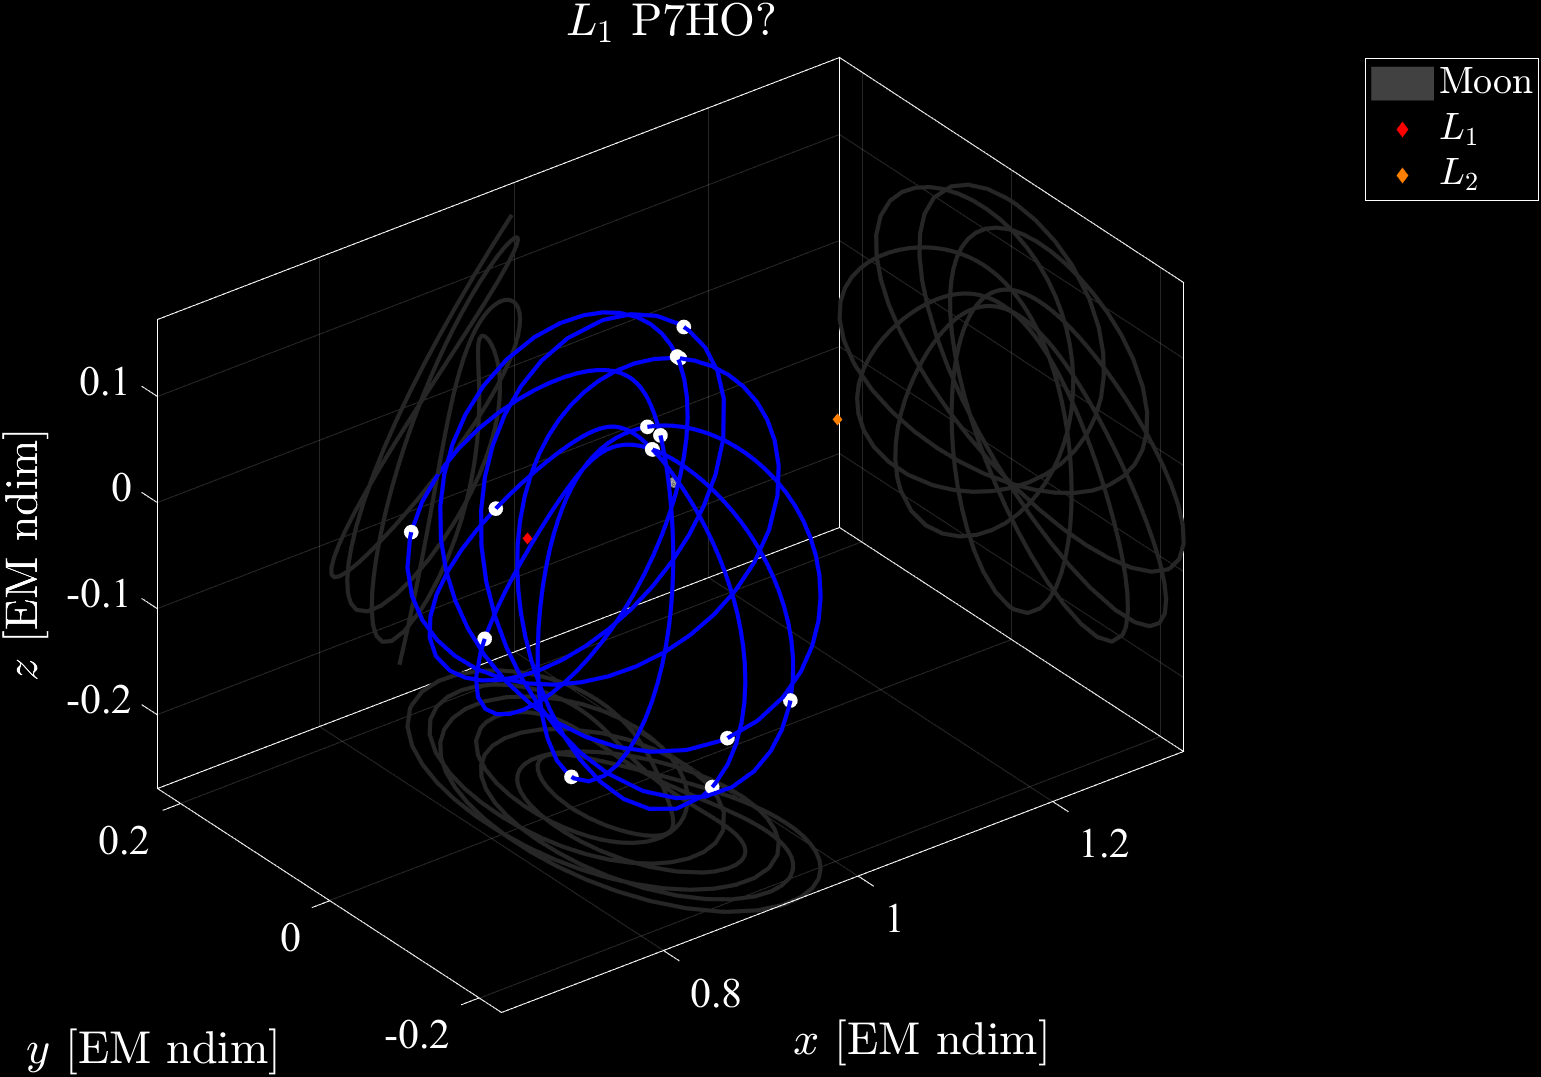
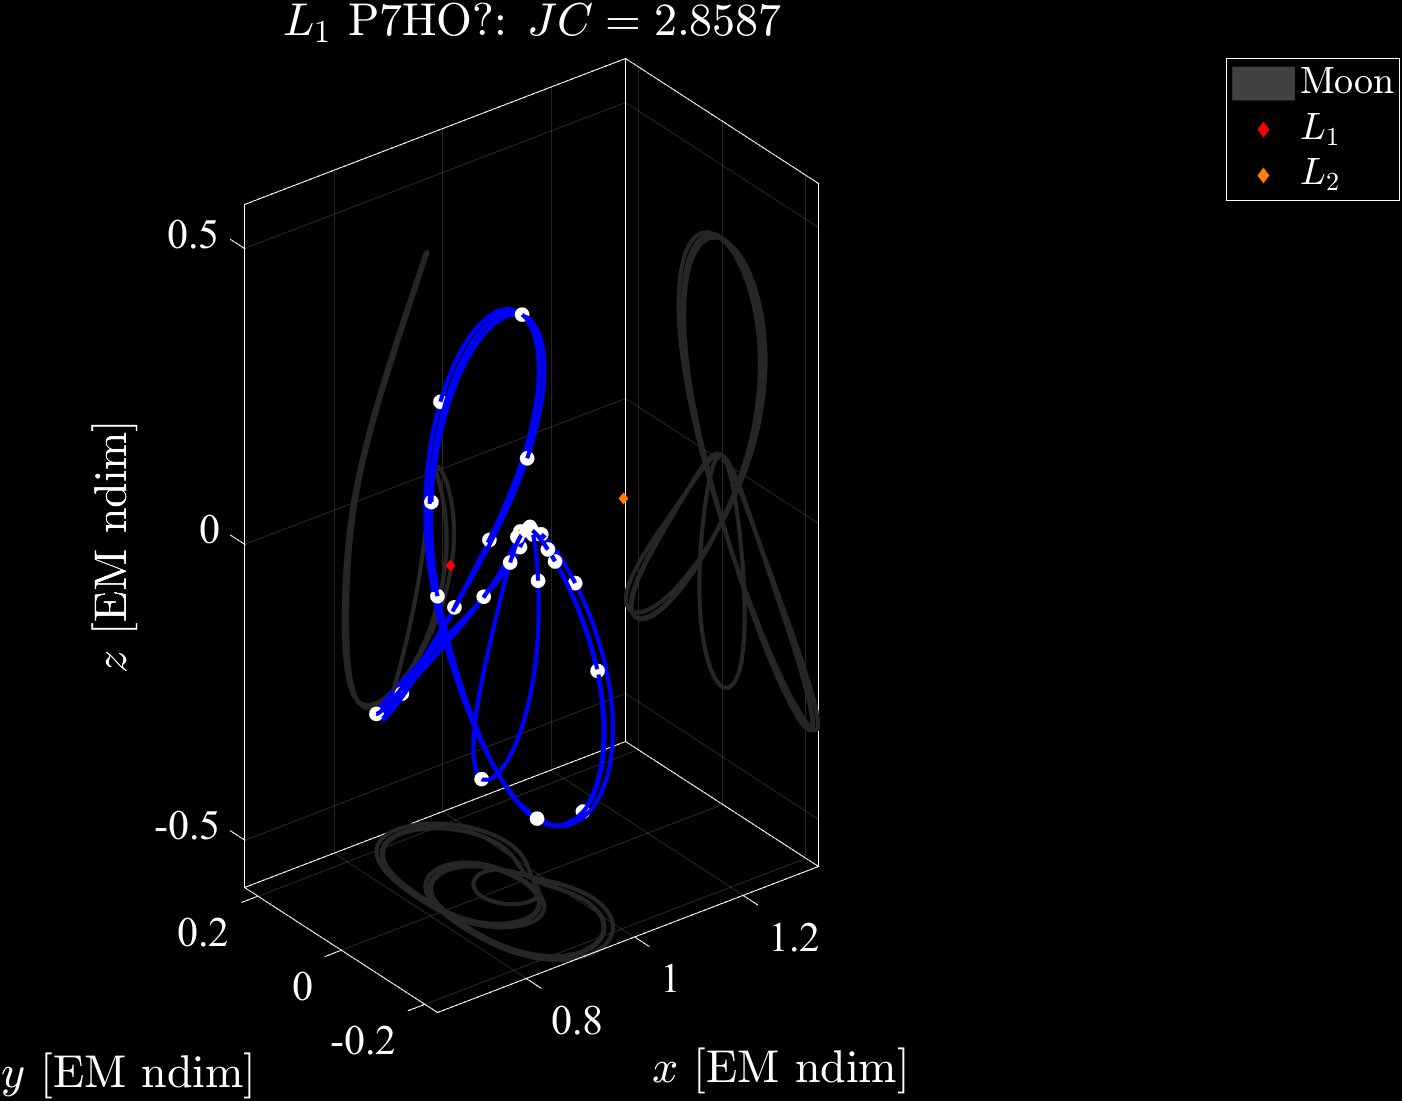
Updated BCR4BPDev script and created getHEM and getZVC functions

diff --git a/BCR4BPDev.m b/BCR4BPDev.m
@@ -1,7 +1,7 @@
 %%% BCR4BPDev.jl
 %%% Jonathan Richmond
 %%% C: 19 February 2025
-%%% U: 26 March 2025
+%%% U: 9 April 2025
 
 clear
 addpath('C:\Program Files\MATLAB\mice\src\mice\')
@@ -90,118 +90,236 @@ b4 = sqrt(3)/2;
 b5 = -b4;
 
 %% Plots
-fig1 = figure("Position", [200 100 1200 750]);
+% fig1 = figure("Position", [200 100 1200 750]);
+% hold on
+% Earth = plot3DBody("Earth", RE/lstarEM, [-muEM, 0, 0]);
+% set(Earth, 'DisplayName', "Earth")
+% Moon = plot3DBody("Moon", Rm/lstarEM, [1-muEM, 0, 0]);
+% set(Moon, 'DisplayName', "Moon")
+% scatter3(a1EM, 0, 0, 20, 'r', 'filled', 'd', 'DisplayName', "CR3BP $L_{1}$")
+% scatter3(a2EM, 0, 0, 20, [1 0.5 0], 'filled', 'd', 'DisplayName', "CR3BP $L_{2}$")
+% scatter3(a3EM, 0, 0, 20, 'g', 'filled', 'd', 'DisplayName', "CR3BP $L_{3}$")
+% scatter3(a45EM, b4, 0, 20, 'b', 'filled', 'd', 'DisplayName', "CR3BP $L_{4}$")
+% scatter3(a45EM, b5, 0, 20, [1 0 1], 'filled', 'd', 'DisplayName', "CR3BP $L_{5}$")
+% plot3(orbitCR3BP.x, orbitCR3BP.y, orbitCR3BP.z, 'DisplayName', "CR3BP Orbit")
+% scatter3(trajBCR4BPEM.x, trajBCR4BPEM.y, trajBCR4BPEM.z, 10*ones(length(trajBCR4BPEM.t), 1), angleColor(trajBCR4BPEM.theta4), 'filled', 'DisplayName', "BCR4BP EM Prop.")
+% % plot3(validBCR4BPEM.x, validBCR4BPEM.y, validBCR4BPEM.z, 'DisplayName', "BCR4BP S$B_{1}$ Trans.")
+% % plot3(validBCR4BPEM2.x, validBCR4BPEM2.y, validBCR4BPEM2.z, 'DisplayName', "ECLIPJ2000 Trans.")
+% axis equal
+% grid on
+% xlabel("$x$ [EM ndim]", 'Interpreter', 'latex')
+% ylabel("$y$ [EM ndim]", 'Interpreter', 'latex')
+% zlabel("$z$ [EM ndim]", 'Interpreter', 'latex')
+% title("Earth-Moon: $\theta_{S,0}="+num2str(rad2deg(trajBCR4BPEM.theta4(1)), '%.0f')+"^{\circ}$", 'Interpreter', 'latex')
+% legend('Location', 'northeastoutside', 'Interpreter', 'latex')
+% phasemap;
+% phasebar('deg', 'Location', 'northeast', 'Size', 0.275)
+% set(gca, 'Color', 'k')
+% view(3)
+% hold off
+% % exportgraphics(fig1, 'BCR4BPDev_1.png', 'BackgroundColor', 'k')
+
+% fig2 = figure("Position", [200 100 1200 750]);
+% hold on
+% B1 = plot3DBody("Earth", RE/lstarSB1, [1-muSB1, 0, 0]);
+% set(B1, 'DisplayName', "$B_{1}$")
+% fplot(@(t) a_M*sin(t)+1-muSB1, @(t) a_M*cos(t), 'w', 'DisplayName', "Lunar Orbit");
+% scatter3(trajBCR4BPSB1.x, trajBCR4BPSB1.y, trajBCR4BPSB1.z, 10*ones(length(trajBCR4BPSB1.t), 1), angleColor(trajBCR4BPSB1.theta2), 'filled', 'DisplayName', "BCR4BP EM Trans.")
+% % plot3(validBCR4BPSB1.x, validBCR4BPSB1.y, validBCR4BPSB1.z, 'DisplayName', "BCR4BP S$B_{1}$ Prop.")
+% % plot3(validBCR4BPSB12.x, validBCR4BPSB12.y, validBCR4BPSB12.z, 'DisplayName', "ECLIPJ2000 Trans.")
+% axis equal
+% grid on
+% xlabel("$\underline{x}$ [S$B_{1}$ ndim]", 'Interpreter', 'latex')
+% ylabel("$\underline{y}$ [S$B_{1}$ ndim]", 'Interpreter', 'latex')
+% zlabel("$\underline{z}$ [S$B_{1}$ ndim]", 'Interpreter', 'latex')
+% title("Sun-$B_{1}$: $\theta_{M,0}="+num2str(rad2deg(trajBCR4BPSB1.theta2(1)), '%.0f')+"^{\circ}$", 'Interpreter', 'latex')
+% legend('Location', 'northeastoutside', 'Interpreter', 'latex')
+% phasemap;
+% phasebar('deg', 'Location', 'northeast', 'Size', 0.275)
+% set(gca, 'Color', 'k')
+% view(3)
+% hold off
+% % exportgraphics(fig2, 'BCR4BPDev_2.png', 'BackgroundColor', 'k')
+
+% fig3 = figure("Position", [200 100 1200 750]);
+% hold on
+% B1 = plot3DBody("Earth", RE/lstarEM*5, [0, 0, 0]);
+% set(B1, 'DisplayName', "$B_{1}$")
+% Moon = plot3DBody("Moon", Rm/lstarEM*10, MoonLoc);
+% set(Moon, 'DisplayName', "Moon")
+% Sun = plot3DBody("Sun", RS/lstarSB1*10, 2*SunLoc);
+% set(Sun, 'DisplayName', "Sun")
+% axis equal
+% grid on
+% xlabel("$X$ [meaningless]", 'Interpreter', 'latex')
+% ylabel("$Y$ [meaningless]", 'Interpreter', 'latex')
+% title("Ecliptic J2000 ($B_{1}$): "+initialEpoch, 'Interpreter', 'latex')
+% legend('Location', 'northeastoutside', 'Interpreter', 'latex')
+% set(gca, 'Color', 'k')
+% view(2)
+% hold off
+% % exportgraphics(fig3, 'BCR4BPDev_3.png', 'BackgroundColor', 'k')
+
+% fig4 = figure("Position", [200 100 1200 750]);
+% hold on
+% Earth = plot3DBody("Earth", RE/lstarEM, [0, 0, 0]);
+% set(Earth, 'DisplayName', "Earth")
+% fplot(@(t) sin(t), @(t) cos(t), 'w', 'DisplayName', "Planar Lunar Orbit");
+% % plot3(MoonEclipJ2000(:,1), MoonEclipJ2000(:,2), MoonEclipJ2000(:,3), 'w:', 'DisplayName', 'True Lunar Orbit')
+% scatter3(trajBCR4BPEEclipJ2000.x, trajBCR4BPEEclipJ2000.y, trajBCR4BPEEclipJ2000.z, 10*ones(length(trajBCR4BPEEclipJ2000.t), 1), angleColor(trajBCR4BPEEclipJ2000.theta4), 'filled', 'DisplayName', "BCR4BP EM Traj.")
+% % plot3(trajBCR4BPSB1EEclipJ2000.x, trajBCR4BPSB1EEclipJ2000.y, trajBCR4BPSB1EEclipJ2000.z, 'DisplayName', "BCR4BP S$B_{1}$ Traj.")
+% % plot3(trajCR3BPEclipJ2000.x, trajCR3BPEclipJ2000.y, trajCR3BPEclipJ2000.z, 'DisplayName', "CR3BP Traj.")
+% axis equal
+% grid on
+% xlabel("$X$ [EM ndim]", 'Interpreter', 'latex')
+% ylabel("$Y$ [EM ndim]", 'Interpreter', 'latex')
+% zlabel("$Z$ [EM ndim]", 'Interpreter', 'latex')
+% title("EJ2000 (Earth): "+initialEpoch(1:11), 'Interpreter', 'latex')
+% legend('Location', 'northeastoutside', 'Interpreter', 'latex')
+% phasemap;
+% phasebar('deg', 'Location', 'northeast', 'Size', 0.275)
+% set(gca, 'Color', 'k')
+% view(3)
+% % view(90, 0)
+% hold off
+% % exportgraphics(fig4, 'BCR4BPDev_4.png', 'BackgroundColor', 'k')
+
+% fig5 = figure("Position", [200 100 1200 750]);
+% hold on
+% Sun = plot3DBody("Sun", RS/lstarEM*5, [0, 0, 0]);
+% set(Sun, 'DisplayName', "Sun (x5)")
+% fplot(@(t) (lstarSB1/lstarEM)*sin(t), @(t) (lstarSB1/lstarEM)*cos(t), 'w', 'DisplayName', "$B_{1}$ Orbit");
+% scatter3(trajBCR4BPSEclipJ2000.x, trajBCR4BPSEclipJ2000.y, trajBCR4BPSEclipJ2000.z, 10*ones(length(trajBCR4BPSEclipJ2000.t), 1), angleColor(trajBCR4BPSEclipJ2000.theta4), 'filled', 'DisplayName', "BCR4BP EM Traj.")
+% axis equal
+% grid on
+% xlabel("$X$ [EM ndim]", 'Interpreter', 'latex')
+% ylabel("$Y$ [EM ndim]", 'Interpreter', 'latex')
+% zlabel("$Z$ [EM ndim]", 'Interpreter', 'latex')
+% title("EJ2000 (Sun): "+initialEpoch(1:11), 'Interpreter', 'latex')
+% legend('Location', 'northeastoutside', 'Interpreter', 'latex')
+% phasemap;
+% phasebar('deg', 'Location', 'northeast', 'Size', 0.275)
+% set(gca, 'Color', 'k')
+% view(3)
+% hold off
+% % exportgraphics(fig5, 'BCR4BPDev_5.png', 'BackgroundColor', 'k')
+
+fig6 = figure("Position", [200 100 1200 750]);
 hold on
-Earth = plot3DBody("Earth", RE/lstarEM, [-muEM, 0, 0]);
-set(Earth, 'DisplayName', "Earth")
-Moon = plot3DBody("Moon", Rm/lstarEM, [1-muEM, 0, 0]);
-set(Moon, 'DisplayName', "Moon")
-scatter3(a1EM, 0, 0, 20, 'r', 'filled', 'd', 'DisplayName', "$L_{1}$")
-scatter3(a2EM, 0, 0, 20, [1 0.5 0], 'filled', 'd', 'DisplayName', "$L_{2}$")
-scatter3(a3EM, 0, 0, 20, 'g', 'filled', 'd', 'DisplayName', "$L_{3}$")
-scatter3(a45EM, b4, 0, 20, 'b', 'filled', 'd', 'DisplayName', "$L_{4}$")
-scatter3(a45EM, b5, 0, 20, [1 0 1], 'filled', 'd', 'DisplayName', "$L_{5}$")
-plot3(orbitCR3BP.x, orbitCR3BP.y, orbitCR3BP.z, 'DisplayName', "CR3BP Orbit")
-scatter3(trajBCR4BPEM.x, trajBCR4BPEM.y, trajBCR4BPEM.z, 10*ones(length(trajBCR4BPEM.t), 1), angleColor(trajBCR4BPEM.theta4), 'filled', 'DisplayName', "BCR4BP EM Prop.")
-% plot3(validBCR4BPEM.x, validBCR4BPEM.y, validBCR4BPEM.z, 'DisplayName', "BCR4BP S$B_{1}$ Trans.")
-% plot3(validBCR4BPEM2.x, validBCR4BPEM2.y, validBCR4BPEM2.z, 'DisplayName', "ECLIPJ2000 Trans.")
+scatter3(a1EM, 0, 0, 20, 'r', 'filled', 'd', 'DisplayName', "CR3BP $L_{1}$")
+scatter3(E1BCR4BPEM.x, E1BCR4BPEM.y, E1BCR4BPEM.z, 10*ones(length(E1BCR4BPEM.t), 1), angleColor(E1BCR4BPEM.theta4), 'filled', 'DisplayName', "BCR4BP EM Inst. $E_{1}$")
 axis equal
 grid on
 xlabel("$x$ [EM ndim]", 'Interpreter', 'latex')
 ylabel("$y$ [EM ndim]", 'Interpreter', 'latex')
 zlabel("$z$ [EM ndim]", 'Interpreter', 'latex')
-title("Earth-Moon: $\theta_{S,0}="+num2str(rad2deg(trajBCR4BPEM.theta4(1)), '%.0f')+"^{\circ}$", 'Interpreter', 'latex')
+title("Earth-Moon $E_{1}$", 'Interpreter', 'latex')
 legend('Location', 'northeastoutside', 'Interpreter', 'latex')
 phasemap;
-phasebar('Location', 'northeast', 'Size', 0.275)
+phasebar('deg', 'Location', 'northeast', 'Size', 0.275)
 set(gca, 'Color', 'k')
-view(3)
+view(2)
 hold off
-% exportgraphics(fig1, 'BCR4BPDev_1.png', 'BackgroundColor', 'k')
+% exportgraphics(fig6, 'BCR4BPDev_6.png', 'BackgroundColor', 'k')
 
-fig2 = figure("Position", [200 100 1200 750]);
+fig7 = figure("Position", [200 100 1200 750]);
 hold on
-B1 = plot3DBody("Earth", RE/lstarSB1, [1-muSB1, 0, 0]);
-set(B1, 'DisplayName', "$B_{1}$")
-fplot(@(t) a_M*sin(t)+1-muSB1, @(t) a_M*cos(t), 'w', 'DisplayName', "Lunar Orbit");
-scatter3(trajBCR4BPSB1.x, trajBCR4BPSB1.y, trajBCR4BPSB1.z, 10*ones(length(trajBCR4BPSB1.t), 1), angleColor(trajBCR4BPSB1.theta2), 'filled', 'DisplayName', "BCR4BP EM Trans.")
-% plot3(validBCR4BPSB1.x, validBCR4BPSB1.y, validBCR4BPSB1.z, 'DisplayName', "BCR4BP S$B_{1}$ Prop.")
-% plot3(validBCR4BPSB12.x, validBCR4BPSB12.y, validBCR4BPSB12.z, 'DisplayName', "ECLIPJ2000 Trans.")
+scatter3(a2EM, 0, 0, 20, [1 0.5 0], 'filled', 'd', 'DisplayName', "CR3BP $L_{2}$")
+scatter3(E2BCR4BPEM.x, E2BCR4BPEM.y, E2BCR4BPEM.z, 10*ones(length(E2BCR4BPEM.t), 1), angleColor(E2BCR4BPEM.theta4), 'filled', 'DisplayName', "BCR4BP EM Inst. $E_{2}$")
 axis equal
 grid on
-xlabel("$\underline{x}$ [S$B_{1}$ ndim]", 'Interpreter', 'latex')
-ylabel("$\underline{y}$ [S$B_{1}$ ndim]", 'Interpreter', 'latex')
-zlabel("$\underline{z}$ [S$B_{1}$ ndim]", 'Interpreter', 'latex')
-title("Sun-$B_{1}$: $\theta_{M,0}="+num2str(rad2deg(trajBCR4BPSB1.theta2(1)), '%.0f')+"^{\circ}$", 'Interpreter', 'latex')
+xlabel("$x$ [EM ndim]", 'Interpreter', 'latex')
+ylabel("$y$ [EM ndim]", 'Interpreter', 'latex')
+zlabel("$z$ [EM ndim]", 'Interpreter', 'latex')
+title("Earth-Moon $E_{2}$", 'Interpreter', 'latex')
 legend('Location', 'northeastoutside', 'Interpreter', 'latex')
 phasemap;
-phasebar('Location', 'northeast', 'Size', 0.275)
+phasebar('deg', 'Location', 'northeast', 'Size', 0.275)
 set(gca, 'Color', 'k')
-view(3)
+view(2)
 hold off
-% exportgraphics(fig2, 'BCR4BPDev_2.png', 'BackgroundColor', 'k')
+% exportgraphics(fig7, 'BCR4BPDev_7.png', 'BackgroundColor', 'k')
 
-fig3 = figure("Position", [200 100 1200 750]);
+fig8 = figure("Position", [200 100 1200 750]);
 hold on
-B1 = plot3DBody("Earth", RE/lstarEM*5, [0, 0, 0]);
-set(B1, 'DisplayName', "$B_{1}$")
-Moon = plot3DBody("Moon", Rm/lstarEM*10, MoonLoc);
-set(Moon, 'DisplayName', "Moon")
-Sun = plot3DBody("Sun", RS/lstarSB1*10, 2*SunLoc);
-set(Sun, 'DisplayName', "Sun")
-axis equal
+H1 = zeros(length(E1BCR4BPEM.t), 1);
+H2 = zeros(length(E2BCR4BPEM.t), 1);
+H = zeros(length(trajBCR4BPEM.t), 1);
+for j = 1:length(E1BCR4BPEM.t)
+    H1(j) = getHEM(muEM, m_S, a_S, [E1BCR4BPEM.x(j), E1BCR4BPEM.y(j), E1BCR4BPEM.z(j), E1BCR4BPEM.xdot(j), E1BCR4BPEM.ydot(j), E1BCR4BPEM.zdot(j), E1BCR4BPEM.theta4(j)]);
+    H2(j) = getHEM(muEM, m_S, a_S, [E2BCR4BPEM.x(j), E2BCR4BPEM.y(j), E2BCR4BPEM.z(j), E2BCR4BPEM.xdot(j), E2BCR4BPEM.ydot(j), E2BCR4BPEM.zdot(j), E2BCR4BPEM.theta4(j)]);
+    H(j) = getHEM(muEM, m_S, a_S, [trajBCR4BPEM.x(j), trajBCR4BPEM.y(j), trajBCR4BPEM.z(j), trajBCR4BPEM.xdot(j), trajBCR4BPEM.ydot(j), trajBCR4BPEM.zdot(j), trajBCR4BPEM.theta4(j)]);
+end
+scatter(rad2deg(E1BCR4BPEM.theta4), H1, 10, 'r', 'filled', 'DisplayName', "Inst. $E_{1}$")
+scatter(rad2deg(E2BCR4BPEM.theta4), H2, 10, [1 0.5 0], 'filled', 'DisplayName', "Inst. $E_{2}$")
+scatter(rad2deg(trajBCR4BPEM.theta4), H, 10*ones(length(E2BCR4BPEM.t), 1), angleColor(E2BCR4BPEM.theta4), 'filled', 'DisplayName', "Traj")
 grid on
-xlabel("$X$ [meaningless]", 'Interpreter', 'latex')
-ylabel("$Y$ [meaningless]", 'Interpreter', 'latex')
-title("Ecliptic J2000 ($B_{1}$): "+initialEpoch, 'Interpreter', 'latex')
+xlabel("$\theta_{S}$ [deg]", 'Interpreter', 'latex')
+ylabel("$H$ [EM ndim]", 'Interpreter', 'latex')
+title("BCR4BP Earth-Moon", 'Interpreter', 'latex')
 legend('Location', 'northeastoutside', 'Interpreter', 'latex')
 set(gca, 'Color', 'k')
 view(2)
 hold off
-% exportgraphics(fig3, 'BCR4BPDev_3.png', 'BackgroundColor', 'k')
-
-fig4 = figure("Position", [200 100 1200 750]);
-hold on
-Earth = plot3DBody("Earth", RE/lstarEM, [0, 0, 0]);
-set(Earth, 'DisplayName', "Earth")
-fplot(@(t) sin(t), @(t) cos(t), 'w', 'DisplayName', "Planar Lunar Orbit");
-% plot3(MoonEclipJ2000(:,1), MoonEclipJ2000(:,2), MoonEclipJ2000(:,3), 'w:', 'DisplayName', 'True Lunar Orbit')
-scatter3(trajBCR4BPEEclipJ2000.x, trajBCR4BPEEclipJ2000.y, trajBCR4BPEEclipJ2000.z, 10*ones(length(trajBCR4BPEEclipJ2000.t), 1), angleColor(trajBCR4BPEEclipJ2000.theta4), 'filled', 'DisplayName', "BCR4BP EM Traj.")
-% plot3(trajBCR4BPSB1EEclipJ2000.x, trajBCR4BPSB1EEclipJ2000.y, trajBCR4BPSB1EEclipJ2000.z, 'DisplayName', "BCR4BP S$B_{1}$ Traj.")
-% plot3(trajCR3BPEclipJ2000.x, trajCR3BPEclipJ2000.y, trajCR3BPEclipJ2000.z, 'DisplayName', "CR3BP Traj.")
-axis equal
-grid on
-xlabel("$X$ [EM ndim]", 'Interpreter', 'latex')
-ylabel("$Y$ [EM ndim]", 'Interpreter', 'latex')
-zlabel("$Z$ [EM ndim]", 'Interpreter', 'latex')
-title("EJ2000 (Earth): "+initialEpoch(1:11), 'Interpreter', 'latex')
-legend('Location', 'northeastoutside', 'Interpreter', 'latex')
-phasemap;
-phasebar('Location', 'northeast', 'Size', 0.275)
-set(gca, 'Color', 'k')
-view(3)
-% view(90, 0)
-hold off
-% exportgraphics(fig4, 'BCR4BPDev_4.png', 'BackgroundColor', 'k')
-
-fig5 = figure("Position", [200 100 1200 750]);
-hold on
-Sun = plot3DBody("Sun", RS/lstarEM*5, [0, 0, 0]);
-set(Sun, 'DisplayName', "Sun (x5)")
-fplot(@(t) (lstarSB1/lstarEM)*sin(t), @(t) (lstarSB1/lstarEM)*cos(t), 'w', 'DisplayName', "$B_{1}$ Orbit");
-scatter3(trajBCR4BPSEclipJ2000.x, trajBCR4BPSEclipJ2000.y, trajBCR4BPSEclipJ2000.z, 10*ones(length(trajBCR4BPSEclipJ2000.t), 1), angleColor(trajBCR4BPSEclipJ2000.theta4), 'filled', 'DisplayName', "BCR4BP EM Traj.")
-axis equal
-grid on
-xlabel("$X$ [EM ndim]", 'Interpreter', 'latex')
-ylabel("$Y$ [EM ndim]", 'Interpreter', 'latex')
-zlabel("$Z$ [EM ndim]", 'Interpreter', 'latex')
-title("EJ2000 (Sun): "+initialEpoch(1:11), 'Interpreter', 'latex')
-legend('Location', 'northeastoutside', 'Interpreter', 'latex')
-phasemap;
-phasebar('Location', 'northeast', 'Size', 0.275)
-set(gca, 'Color', 'k')
-view(3)
-hold off
-% exportgraphics(fig5, 'BCR4BPDev_5.png', 'BackgroundColor', 'k')
+% exportgraphics(fig8, 'BCR4BPDev_8.png', 'BackgroundColor', 'k')
 
 cspice_kclear
+
+%% Animation
+% tail = 20;
+% time = linspace(trajBCR4BPEM.t(1), trajBCR4BPEM.t(end), 1201);
+% 
+% % Video Object and Figure Params
+% writerObj = VideoWriter('BCR4BPDev.mp4', 'MPEG-4');
+% writerObj.FrameRate = 40;
+% writerObj.Quality = 100;
+% open(writerObj);
+% fig = figure('units', 'normalized', 'outerposition', [0 0 1 1]);
+% fig.Color = 'k';
+% grid on
+% box on
+% 
+% % Plot Loop
+% for t = 1:length(time)
+%     j = find(trajBCR4BPEM.t >= time(t), 1);
+%     fig;
+% 
+%     hold on
+%     Moon = plot3DBody("Moon", Rm/lstarEM, [1-muEM, 0, 0]);
+%     set(Moon, 'DisplayName', "Moon")
+%     scatter3(E1BCR4BPEM.x(j), E1BCR4BPEM.y(j), E1BCR4BPEM.z(j), 20, 'r', 'filled', 'd', 'DisplayName', "BCR4BP Inst. $E_{1}$")
+%     scatter3(E2BCR4BPEM.x(j), E2BCR4BPEM.y(j), E2BCR4BPEM.z(j), 20, [1 0.5 0], 'filled', 'd', 'DisplayName', "BCR4BP Inst. $E_{2}$")
+%     if j > 1
+%         plot3(trajBCR4BPEM.x(1:j), trajBCR4BPEM.y(1:j), trajBCR4BPEM.z(1:j), 'Color', 0.3*[1 1 1], 'LineWidth', 1, 'HandleVisibility', 'off')
+%     end
+%     if t >= tail
+%         jTail = find(trajBCR4BPEM.t >= time(t-tail+1), 1);
+%         plot3(trajBCR4BPEM.x(jTail:j), trajBCR4BPEM.y(jTail:j), trajBCR4BPEM.z(jTail:j), 'w', 'HandleVisibility', 'off')
+%     elseif j > 1
+%         plot3(trajBCR4BPEM.x(1:j), trajBCR4BPEM.y(1:j), trajBCR4BPEM.z(1:j), 'w', 'HandleVisibility', 'off')
+%     end
+%     scatter3(trajBCR4BPEM.x(j), trajBCR4BPEM.y(j), trajBCR4BPEM.z(j), 30, 'w', 'filled', 'DisplayName', "BCR4BP EM Traj")
+%     axis equal
+%     axisLimits = [0.79, 1.2, -0.15, 0.15];
+%     grid on
+%     quiver(1.15, -0.1, 0.025*cos(trajBCR4BPEM.theta4(j)), 0.025*sin(trajBCR4BPEM.theta4(j)), 'off', 'filled', 'Color', 'y', 'MaxHeadSize', 1, 'LineWidth', 3, 'DisplayName', "Sun Direction")
+%     ZVC = getZVC(muEM, m_S, a_S, trajBCR4BPEM.theta4(j), H(j), axisLimits, 250, 'w--');
+%     set(ZVC, 'DisplayName', "Inst. ZVC")
+%     axis(axisLimits)
+%     xlabel("$x$ [EM ndim]", 'Interpreter', 'latex')
+%     ylabel("$y$ [EM ndim]", 'Interpreter', 'latex')
+%     zlabel("$z$ [EM ndim]", 'Interpreter', 'latex')
+%     title("Earth-Moon: $H="+num2str(H(j), '%.4f')+"$", 'Interpreter', 'latex')
+%     legend('Location', 'northeastoutside', 'Interpreter', 'latex')
+%     set(gca, 'Color', 'k')
+%     view(2)
+%     hold off
+% 
+%     frame = getframe(gcf);
+%     writeVideo(writerObj, frame);
+%     clf
+%     grid on
+%     box on
+% end
+% 
+% close(writerObj);

diff --git a/getZVC.m b/getZVC.m
@@ -1,0 +1,14 @@
+%%% getZVC
+%%% Jonathan Richmond
+%%% C: 8 April 2025
+
+function ZVC = getZVC(muEM, mS, aS, thetaS, H, axisLimits, numPoints, lineSpec)
+
+[x, y] = meshgrid(linspace(axisLimits(1), axisLimits(2), numPoints), linspace(axisLimits(3), axisLimits(4), numPoints));
+r_13 = sqrt((x+muEM).^2+y.^2);
+r_23 = sqrt((x-1+muEM).^2+y.^2);
+r_43 = sqrt((x-aS.*cos(thetaS)).^2+(y-aS.*sin(thetaS)).^2);
+U = (1-muEM)./r_13+muEM./r_23+mS./r_43-mS.*(x.*cos(thetaS)+y.*sin(thetaS))./aS.^2+(1/2).*(x.^2+y.^2);
+HEM = 2.*U;
+
+[~, ZVC] = contour(x, y, HEM, [H, H], lineSpec);

diff --git a/getHEM.m b/getHEM.m
@@ -1,0 +1,13 @@
+%%% getHEM
+%%% Jonathan Richmond
+%%% C: 8 April 2025
+
+function HEM = getHEM(muEM, mS, aS, q)
+
+v2 = q(4)^2+q(5)^2+q(6)^2;
+r_13 = sqrt((q(1)+muEM)^2+q(2)^2+q(3)^2);
+r_23 = sqrt((q(1)-1+muEM)^2+q(2)^2+q(3)^2);
+r_43 = sqrt((q(1)-aS*cos(q(7)))^2+(q(2)-aS*sin(q(7)))^2+q(3)^2);
+U = (1-muEM)/r_13+muEM/r_23+mS/r_43-mS*(q(1)*cos(q(7))+q(2)*sin(q(7)))/aS^2+(1/2)*(q(1)^2+q(2)^2);
+
+HEM = 2*U-v2;
